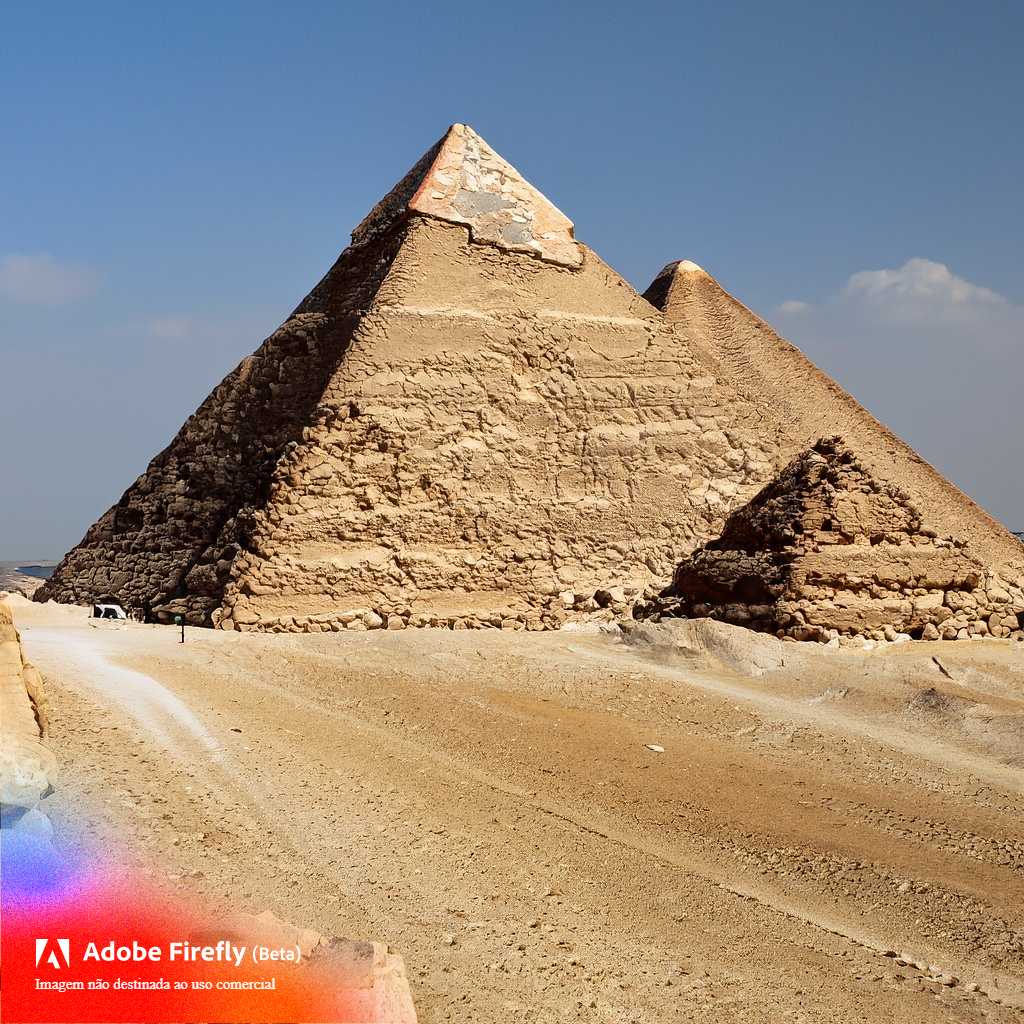
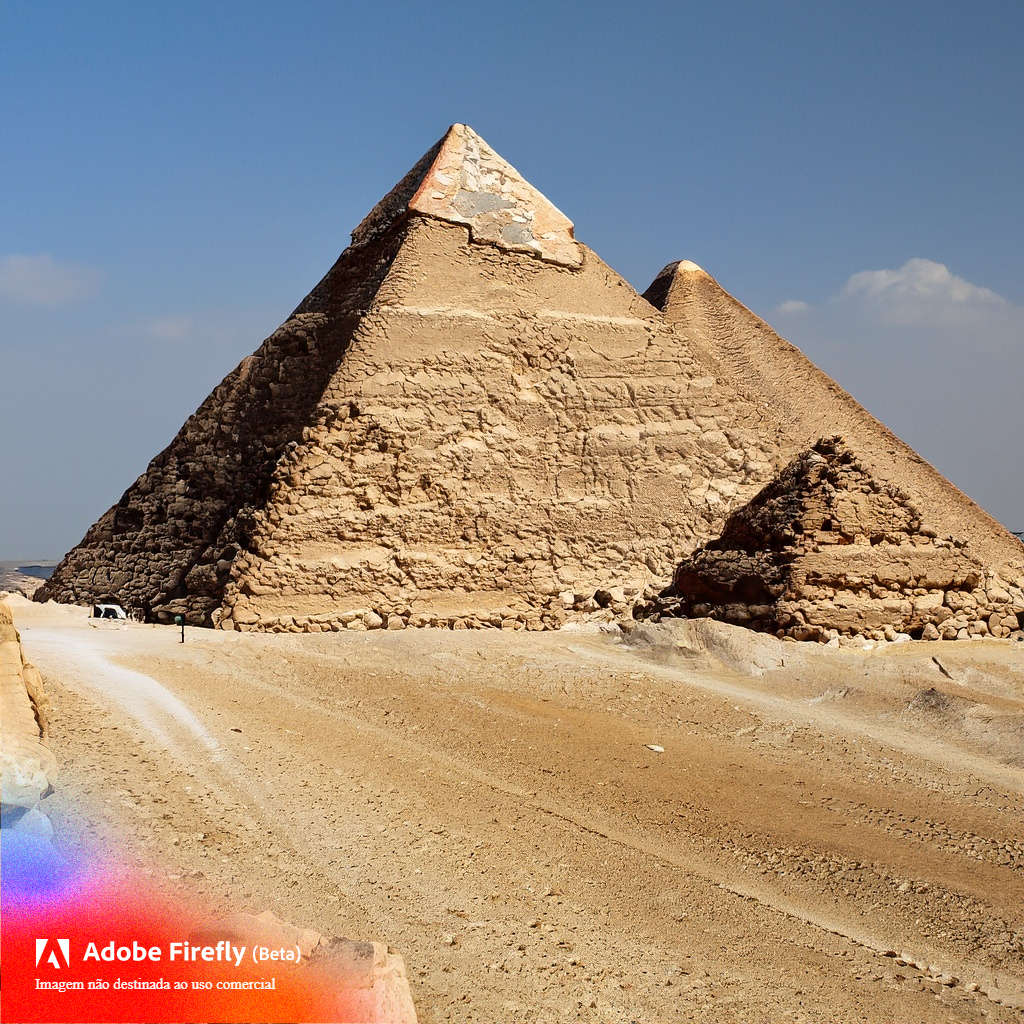
Atualização de imagens
Tamanho em MB reduzido em todas as imagens, alcance alcançado em cerca de 75% de redução no volume de arquivos.

diff --git a/index.html b/index.html
@@ -137,7 +137,7 @@
           <div class="col">
             <div class="card card-alt shadow-sm h-100 gp-revelar">
               <div class="image-container">
-                <img src="imagens/Firefly_resort(2).jpg" class="card-img-top card-img-top-alt image-fadein" alt="imagem Bahia Salvador">
+                <img src="imagens/Firefly_resort.jpg" class="card-img-top card-img-top-alt image-fadein" alt="imagem Bahia Salvador">
               </div>
               <div class="card-body">
                 <h5>Resorts</h5>
